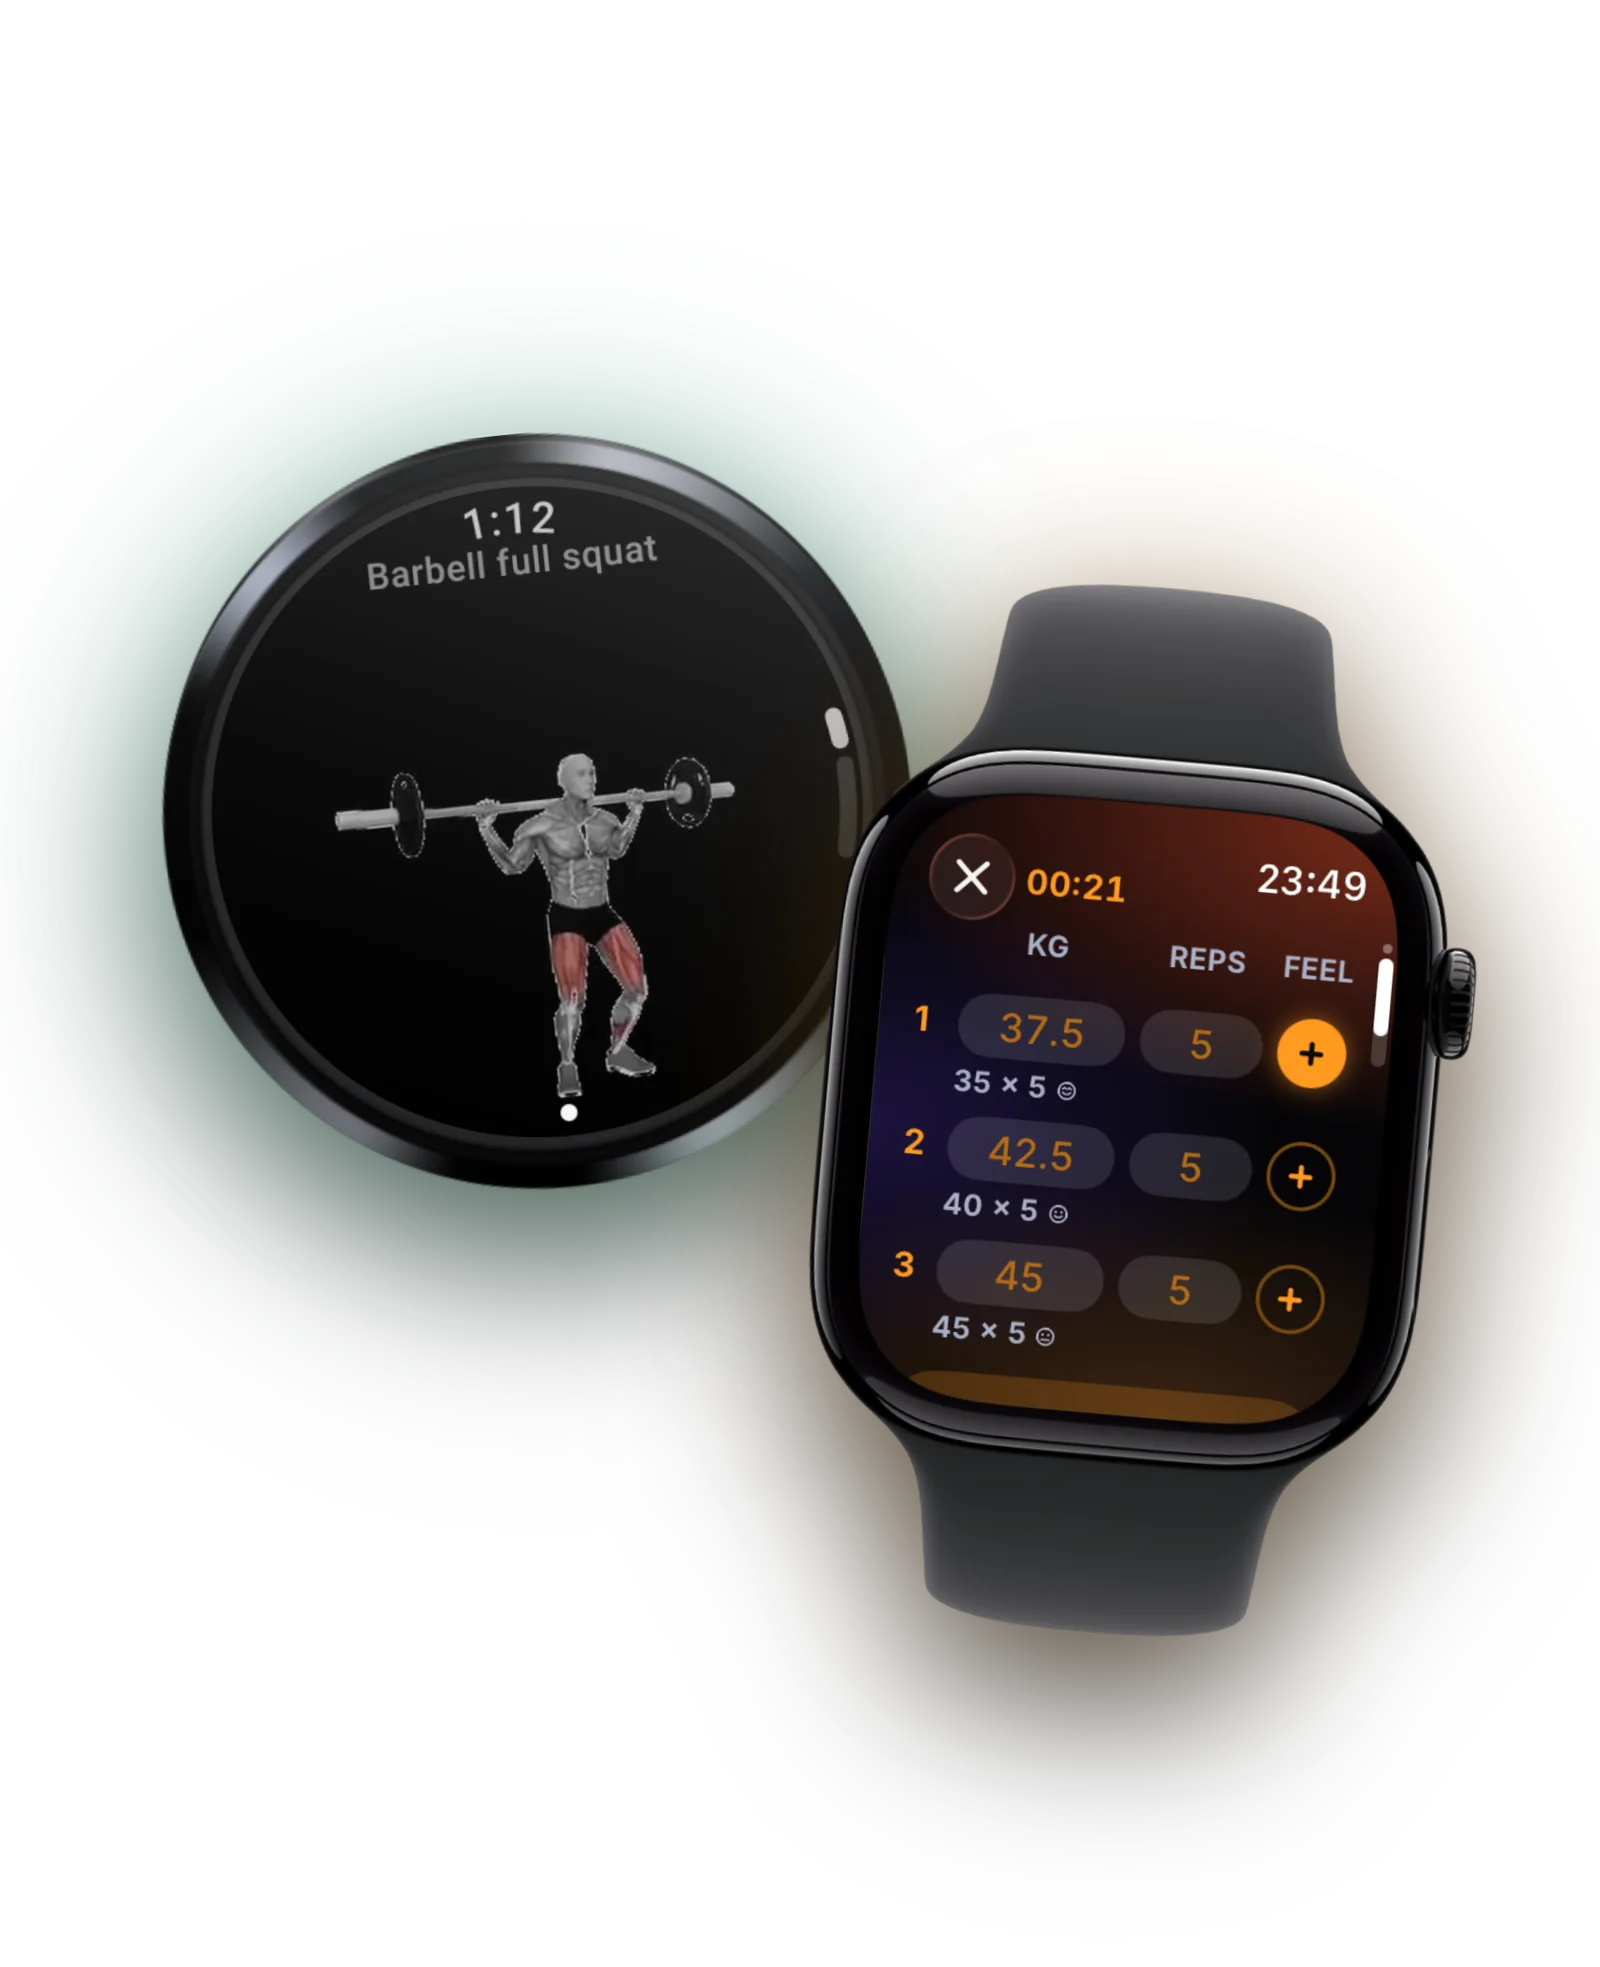
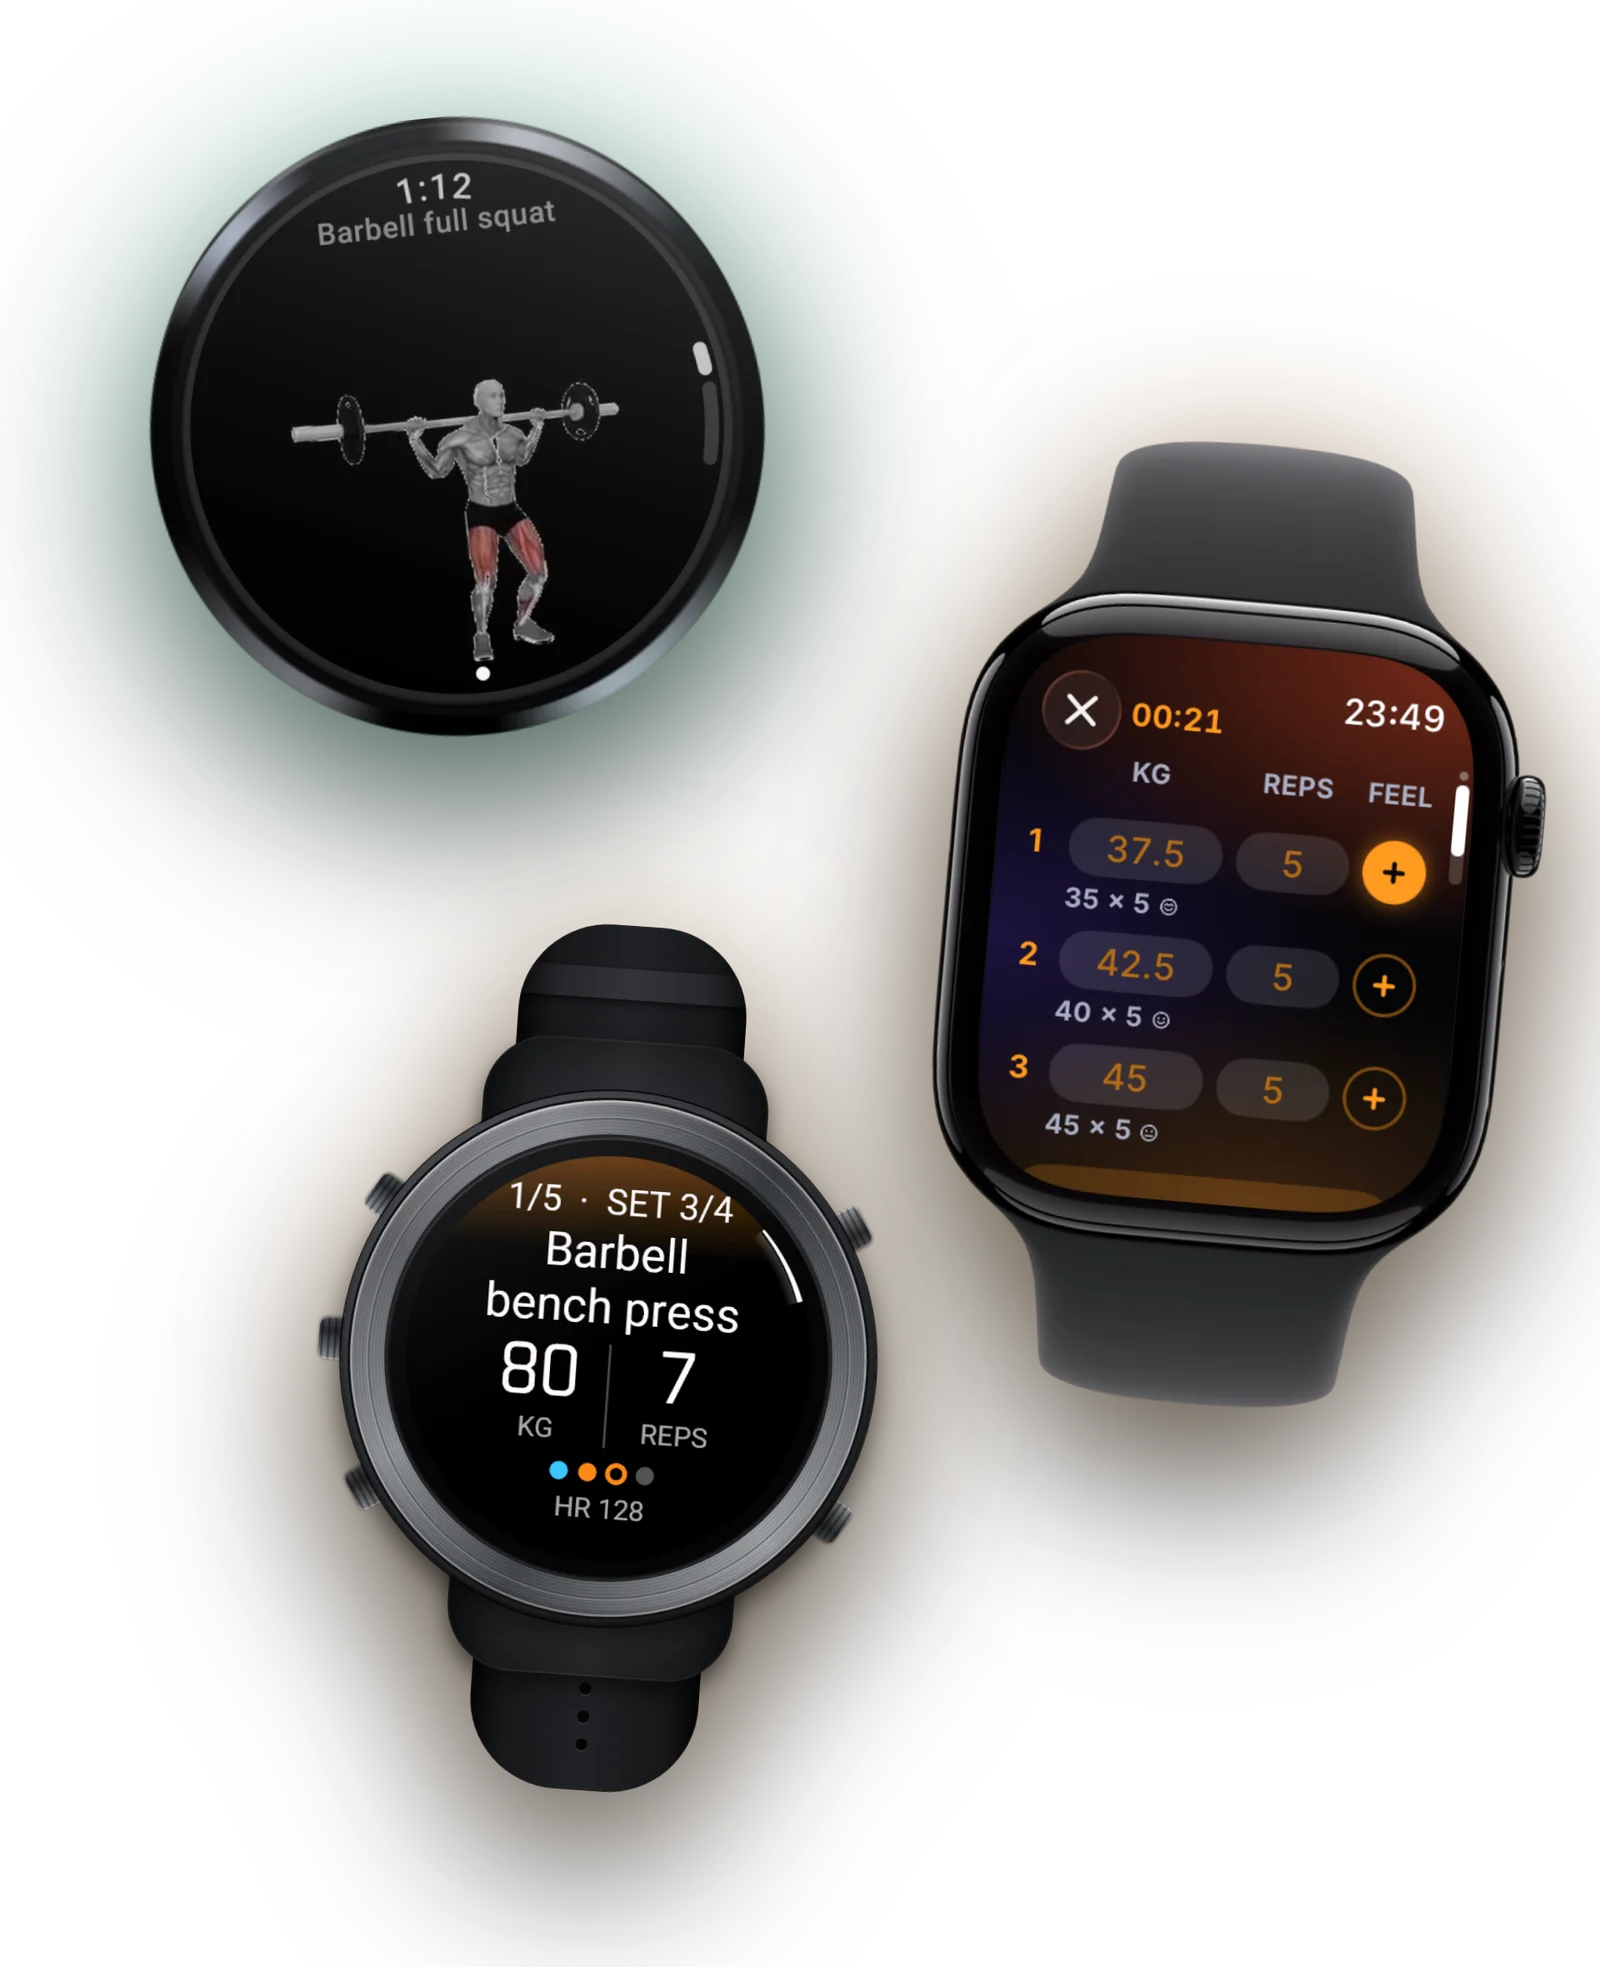
Watch section: Garmin watch added, Connect IQ button

diff --git a/index.html b/index.html
@@ -242,17 +242,22 @@
     <div class="copy">
       <div class="eyebrow">06 &middot; Watch</div>
       <h2>Your workout,<br/><span class="grad">on your wrist.</span></h2>
-      <p class="lead">Apple Watch and Wear OS. The phone can stay in the bag.</p>
+      <p class="lead">Apple Watch, Wear OS and Garmin. The phone can stay in the bag.</p>
       <ul class="dots">
         <li>Two taps per set, right on the watch.</li>
         <li>The next weight is already on the screen.</li>
         <li>The rest timer buzzes before the next set.</li>
       </ul>
+      <div class="get">
+        <!-- TODO: public Connect IQ app URL after approval -->
+        <a class="btn btn-glass" href="https://apps.garmin.com/" target="_blank" rel="noopener">Get it on Connect IQ</a>
+      </div>
+      <div class="facts"><span>Garmin: Strength activity saved to Garmin Connect</span><span>Garmin needs the Android app</span><span>Garmin with iPhone: not yet</span></div>
     </div>
     <div class="stack">
-        <img data-look="neon" src="/assets/img/scenes/watch_neon.webp" width="1600" height="1967" alt="NoRestNest on a Wear OS watch and an Apple Watch: rest timer and set table, Neon look" loading="lazy" decoding="async" />
-        <img data-look="glass" src="/assets/img/scenes/watch_glass.webp" width="1600" height="1967" alt="NoRestNest on a Wear OS watch and an Apple Watch: rest timer and set table, Glass look" loading="lazy" decoding="async" />
-        <img data-look="aurora" src="/assets/img/scenes/watch_aurora.webp" width="1600" height="1967" alt="NoRestNest on a Wear OS watch and an Apple Watch: rest timer and set table, Aurora look" loading="lazy" decoding="async" />
+        <img data-look="neon" src="/assets/img/scenes/watch_neon.webp?v=2" width="1600" height="1967" alt="NoRestNest on a Wear OS watch, an Apple Watch and a Garmin watch: exercise page and set table, Neon look" loading="lazy" decoding="async" />
+        <img data-look="glass" src="/assets/img/scenes/watch_glass.webp?v=2" width="1600" height="1967" alt="NoRestNest on a Wear OS watch, an Apple Watch and a Garmin watch: exercise page and set table, Glass look" loading="lazy" decoding="async" />
+        <img data-look="aurora" src="/assets/img/scenes/watch_aurora.webp?v=2" width="1600" height="1967" alt="NoRestNest on a Wear OS watch, an Apple Watch and a Garmin watch: exercise page and set table, Aurora look" loading="lazy" decoding="async" />
       </div>
   </div>
 </section>
